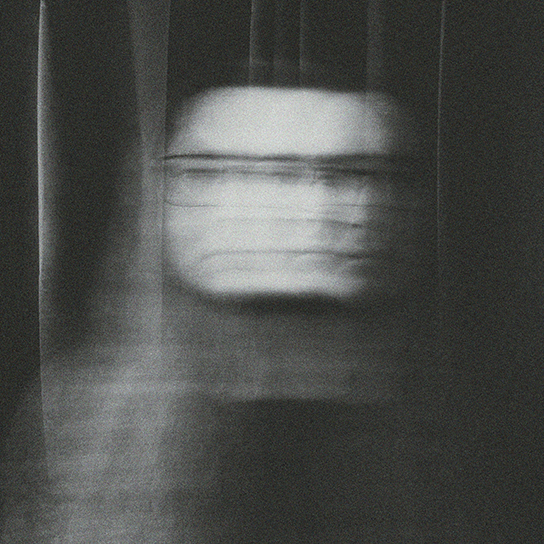
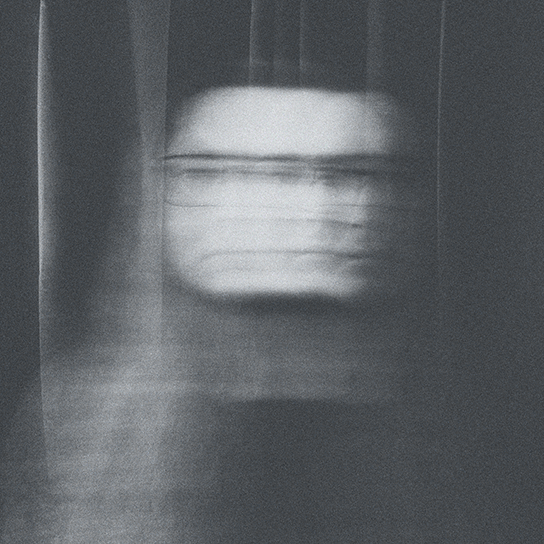
refactor: update design and info

diff --git a/style.css b/style.css
@@ -4,12 +4,12 @@
     --color-text: var(--color-grayscale-900);
 
     --color-grayscale-000: hsl(0, 0%, 100%);
-    --color-grayscale-300: hsl(110, 5%, 90%);
-    --color-grayscale-400: hsl(105, 5%, 80%);
-    --color-grayscale-500: hsl(110, 5%, 40%);
-    --color-grayscale-600: hsl(115, 5%, 30%);
-    --color-grayscale-700: hsl(130, 5%, 20%);
-    --color-grayscale-800: hsl(160, 3%, 15%);
+    --color-grayscale-300: hsl(210, 5%, 90%);
+    --color-grayscale-400: hsl(205, 5%, 80%);
+    --color-grayscale-500: hsl(210, 5%, 40%);
+    --color-grayscale-600: hsl(215, 5%, 30%);
+    --color-grayscale-700: hsl(230, 5%, 20%);
+    --color-grayscale-800: hsl(260, 3%, 15%);
     --color-grayscale-900: hsl(0, 0%, 5%);
 
     --color-success-500: hsl(110, 20%, 50%);
@@ -130,6 +130,11 @@ i {
 .c-wh,
 .c-wh * {
     color: var(--color-bg);
+}
+
+.c-wh-calm,
+.c-wh-calm * {
+    color: var(--color-grayscale-400);
 }
 
 .b-r {
@@ -253,19 +258,54 @@ div.services_item {
 
 .videos_header,
 .credits_header {
-    border-bottom: 0.2rem solid var(--color-bg);
+    color: var(--color-bg);
+    font-size: 1.5rem;
+    font-weight: 900;
+    text-transform: uppercase;
+    border: none;
+}
+
+.videos_header {
+    margin-top: 20rem;
+}
+
+.gradient-text {
+    font-size: 5rem;
+    background-color: var(--color-bg);
+    background-image: linear-gradient(90deg, rgba(222,70,252,1) 0%, rgba(161,66,219,1) 48%, rgba(64,79,208,1) 75%, rgba(63,142,251,1) 100%);
+    background-size: 300% 300%;
+    background-position: 0% 100%;
+    -webkit-background-clip: text;
+    -webkit-text-fill-color: transparent;
+    -moz-background-clip: text;
+    -moz-text-fill-color: transparent;
+    animation: gradient 10s linear infinite;
+}
+
+@keyframes gradient {
+    0% {
+        background-position: 0% 100%;
+    }
+    50% {
+        background-position: 100% 0%;
+    }
+    100% {
+        background-position: 0% 100%;
+    }
 }
 
 .videos_info {
     display: grid;
-    grid-template-columns: 3fr 1fr;
+    grid-template-columns: 2fr 1fr;
+    justify-items: end
 }
 
 .videos_btn {
     width: 20rem;
-    padding: 0.6rem;
+    padding: 0.6rem 1rem;
     text-align: center;
     align-self: center;
+    font-weight: 600;
     background-color: var(--color-grayscale-800);
     line-height: 1.5rem;
 }
@@ -281,8 +321,8 @@ div.services_item {
 
 .videos_btn::after {
     display: block;
-    width: 1.4rem;
-    height: 1.4rem;
+    width: 1rem;
+    height: 1rem;
     content: "";
     background-image: url(./assets/icons/Forward.svg);
     background-size: cover;
@@ -290,10 +330,7 @@ div.services_item {
 
 .videos_div {
     gap: 2rem;
-    margin: 2rem auto;
-    padding: 2rem 0;
-    border-top: 0.1rem solid var(--color-bg);
-    border-bottom: 0.1rem solid var(--color-bg);
+    padding: 14rem 0;
     justify-content: center;
 }
 
@@ -475,6 +512,62 @@ select {
     cursor: pointer;
 }
 
+.running-line {
+    width: 100%;
+    height: 3rem;
+    background-color: #5662F6;
+    position: absolute;
+    overflow: hidden;
+    display: flex;
+    flex-direction: row;
+}
+
+.running-line_text {
+    display: inline-block;
+    font-size: 1.4rem;
+    line-height: 3rem;
+    letter-spacing: .2em;
+    text-transform: uppercase;
+    white-space: pre;
+}
+
+.line_text-1 {
+    animation: run 70s linear infinite;
+    animation-delay: -70s;
+}
+.line_text-2 {
+    animation: run2 70s linear infinite;
+    animation-delay: -35s;
+}
+
+.running-line_text::before {
+    display: inline-block;
+    width: 1rem;
+    height: 1rem;
+    margin: 0 1rem;
+    content: "";
+    background-image: url(./assets/icons/Discord.svg);
+    background-size: cover;
+}
+
+@keyframes run {
+    0% {
+        transform: translateX(100%);
+    }
+    100% {
+        transform: translateX(-100%);
+    }
+}
+
+@keyframes run2 {
+    0% {
+        transform: translateX(0%);
+    }
+    100% {
+        transform: translateX(-200%);
+    }
+}
+
 @media screen and (max-width:65rem) {
     .services_div {
         grid-template-columns: repeat(3, 1fr);
@@ -604,6 +697,11 @@ select {
             "c d";
         gap: 1.8rem;
     }
+
+    .footer-div {
+        padding: 8rem 1rem;
+    }
+
 }
 
 @media screen and (max-width:32rem) {
@@ -620,6 +718,14 @@ select {
             "c c"
             "d d";
         gap: 1.8rem;
+    }
+
+    .gradient-text {
+        font-size: 4rem;
+    }
+
+    i{
+        font-size: 0.6rem;
     }
 }
 
@@ -649,6 +755,10 @@ select {
 
     .icon:hover {
         opacity: 1;
+    }
+
+    .running-line:hover {
+        background-color: #4751df;
     }
 
     .success_cancel:hover {

diff --git a/index.html b/index.html
@@ -39,9 +39,9 @@
     </article>
 
     <div class="dark-bg">
-      <div class="c-wh | width padding">
+      <div class="c-wh-calm | width padding">
         <article>
-          <h2 class="videos_header" id="Videos">Videos</h2>
+          <h2 class="fit | videos_header" id="Videos">Check out my<br><span class="gradient-text">Youtube channel</span></h2>
           <div class=" gap | videos_info">
             <p>Here, you can find anywhere from audio engineering tutorials, tips and tricks, to showing off some of my projects. If you would like to follow me more closely, here would be the best place.</p>
             <a class="b-r fit flex flex-al-c flex-j-sb | videos_btn" href="https://www.youtube.com/@BlakeLW" target="_blank">Subscribe to Youtube channel</a>
@@ -204,12 +204,21 @@
 
       </div>
     </article>
+
+    <a href="https://discord.gg/EuAsv3ubPK">
+      <div class="running-line c-wh">
+        <p class="running-line_text line_text-1">join discord server - community for nerds - live talk and activities - helpful members - audio tips and tricks</p>
+        <p class="running-line_text line_text-2">join discord server - community for nerds - live talk and activities - helpful members - audio tips and tricks</p>
+      </div>
+    </a>
+
   </main>
 
   <footer class="dark-bg">
     <div class="width padding flex flex-j-sb flex-al-c c-wh gap | footer-div">
       <p><i>©2024 Blake Harrison. All rights reserved.<br>Website designed and developed by Milkycocomoon</i></p>
       <div>
+        <a href="https://discord.gg/EuAsv3ubPK"><img loading="lazy" class="icon" src="./assets/icons/Discord.svg" alt="Discord icon"></a>
         <a href="https://www.facebook.com/profile.php?id=61558206276347"><img loading="lazy" class="icon" src="./assets/icons/Facebook.svg" alt="Facebook icon"></a>
         <a href="https://www.instagram.com/theactualblake/"><img loading="lazy" class="icon" src="./assets/icons/Instagram.svg" alt="Instagram icon"></a>
         <a href="https://open.spotify.com/artist/6sGwGYCziHNa1MUPXDVUbu?si=x3aeEQb1Rqe_5bNX4IR-5A"><img loading="lazy" class="icon" src="./assets/icons/Spotify.svg" alt="Spotify icon"></a>

diff --git a/script.js b/script.js
@@ -54,7 +54,7 @@ function renderCreditsHTML() {
                   <img loading="lazy" class="b-r | credits_item-img" src="./assets/images/credits_${creditsList.item}.webp" alt="${creditsList.name} album cover">
                   <div class="credits_item_info">
                     <h4><i>${creditsList.band}</i></h4>
-                    <h3>${creditsList.name}</h3>
+                    <h3 style="color:white">${creditsList.name}</h3>
                     <p class="item_info-p">${creditsList.role}</p>
                   </div>
                 </div>

diff --git a/js/dataCredits.js b/js/dataCredits.js
@@ -1,5 +1,11 @@
 const creditsList = [
     {
+        item: '05',
+        band: 'SUBVERT THE DESIGN',
+        name: 'Anesthesia',
+        role: 'Mixing, Mastering, Post production',
+    },
+    {
         item: '04',
         band: 'LOREWEAVER',
         name: 'Heavensgate',
@@ -20,7 +26,7 @@ const creditsList = [
     {
         item: '01',
         band: 'GEMINI',
-        name: 'Under an Eternal Sun',
+        name: 'Under an<br>Eternal Sun',
         role: 'Producing, Mixing, Mastering',
     },
 ]
